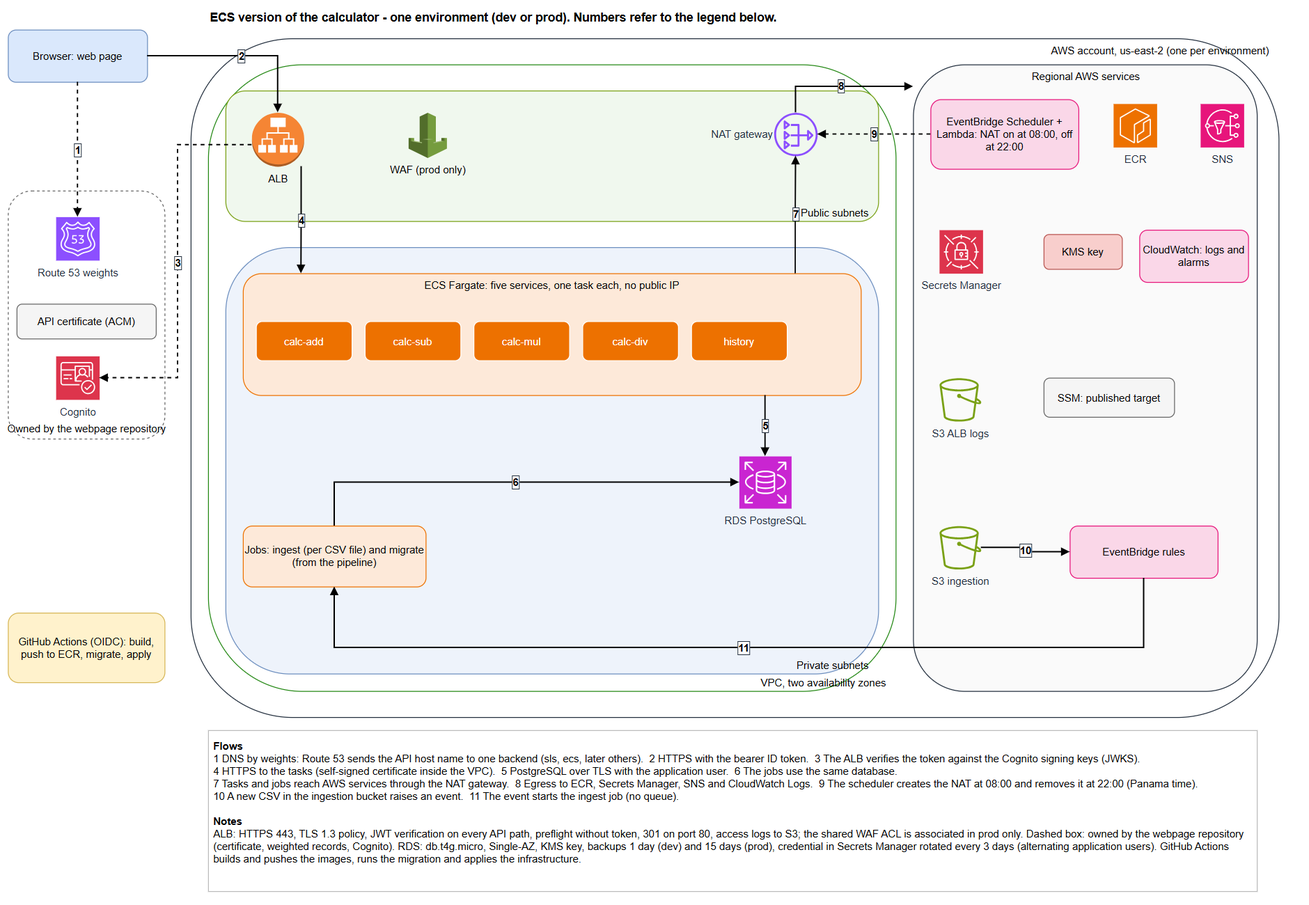
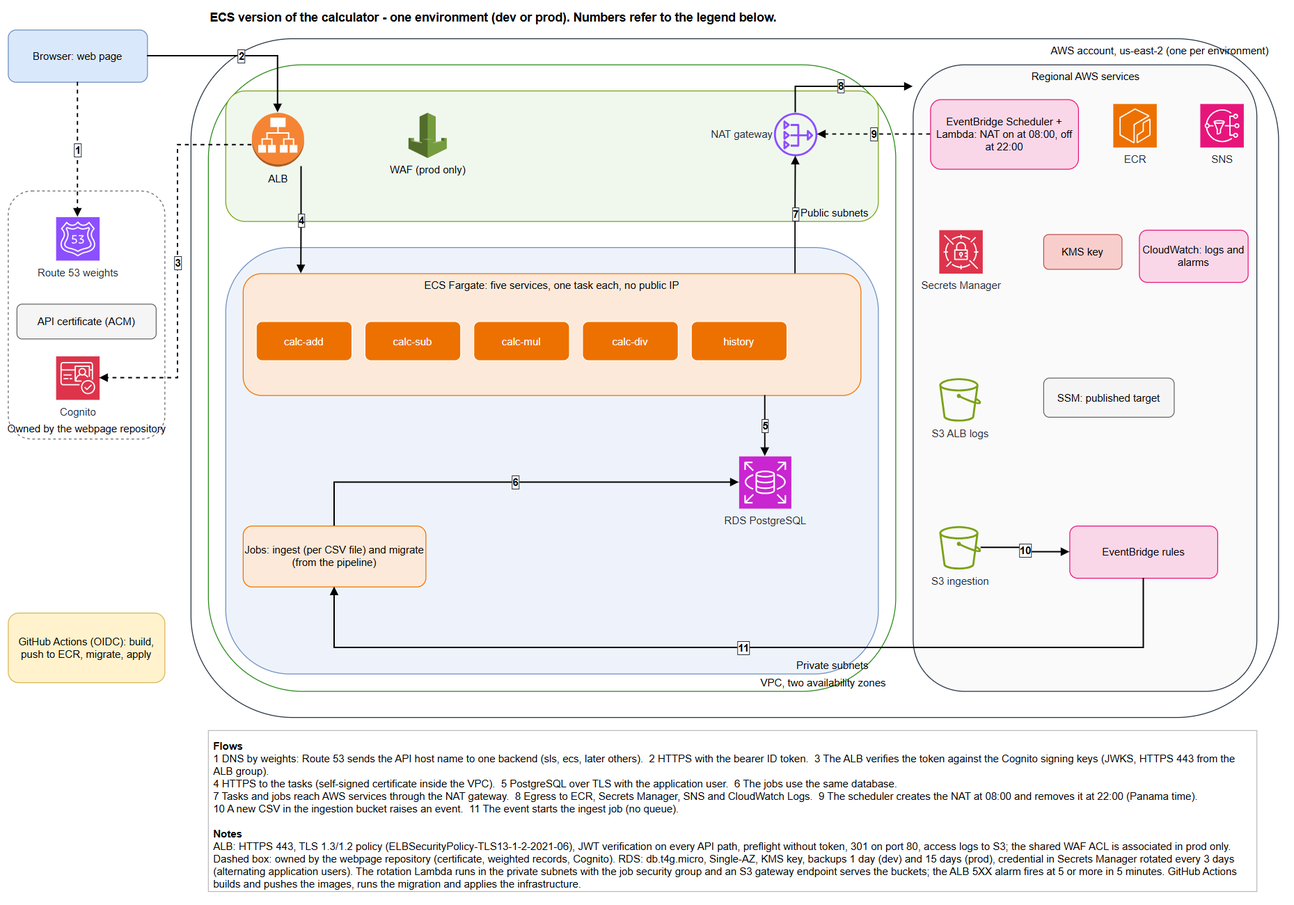
Alert on 5 or more load balancer 5XX responses and document the ECS version

diff --git a/docs/architecture.md b/docs/architecture.md
@@ -1,8 +1,17 @@
 # Architecture
 
-> Status: design stage (2026-10-05). This file holds only the **resource inventory** approved with the design. The full architecture document is written once, at closing.
+> Status: implemented and deployed in `dev` (2026-10-06); `prod` not deployed yet. The inventory was checked against `modules/` and `environments/` at closing.
 > Diagram: [architecture.drawio](architecture.drawio) (export `architecture.png` from it: File > Export as > PNG, 2x).
-> Decisions, accepted exceptions and the security design are recorded in the ADRs and the technical documentation, written at closing.
+> Related: [functional.md](functional.md), [technical.md](technical.md), decisions in [adr/](adr/README.md).
+
+## Overview
+
+```
+Browser --> Route 53 (weights, owned by webpage) --> ALB (443, JWT rule) --> ECS Fargate services (HTTPS, self-signed)
+                                                          |                        |--> RDS PostgreSQL (private, TLS)
+                                                          +--> Cognito JWKS (443)  +--> NAT (08:00-22:00) --> ECR, Secrets Manager, SNS, Logs
+S3 incoming/*.csv --> EventBridge --> one-off Fargate task (ingest) --> RDS
+```
 
 ## Resource inventory
 
@@ -30,21 +39,21 @@ Names follow `<acronym>-useast2-oecalc-<descriptor>-<env>` (`<env>` is `dev` or 
 | 18 | DB subnet group | `aws_db_subnet_group` | `dbsg-useast2-oecalc-<env>` | Private subnets of both AZs | Both | database |
 | 19 | DB parameter group | `aws_db_parameter_group` | `dbpg-useast2-oecalc-<env>` | `rds.force_ssl=1` | Both | database |
 | 20 | RDS PostgreSQL instance | `aws_db_instance` | `rds-useast2-oecalc-<env>` | db.t4g.micro, Single-AZ, gp3 20 GB, backups 1 day dev and 15 days prod, CMK, managed master password | Both | database |
-| 21 | Master secret (created by RDS) + rotation schedule | managed by `aws_db_instance`; schedule by `aws_secretsmanager_secret_rotation` (to be confirmed at implementation) | `rds!db-<id>` (name set by AWS) | Master credential for the administrator, the migration job and the rotation function only; rotates every 3 days | Both | database |
+| 21 | Master secret (created by RDS) + rotation schedule | managed by `aws_db_instance`; schedule by `aws_secretsmanager_secret_rotation` (confirmed) | `rds!db-<id>` (name set by AWS) | Master credential for the administrator, the migration job and the rotation function only; rotates every 3 days | Both | database |
 | 21a | Application secret + rotation (alternating users) | `aws_secretsmanager_secret`, `aws_secretsmanager_secret_rotation`, `aws_lambda_permission` | `sm-useast2-oecalc-app-<env>` | Credential of the limited application user used by services and the ingest job; rotates every 3 days | Both | rotation |
-| 21b | Rotation function + role + log group | `aws_lambda_function`, `aws_iam_role`, `aws_cloudwatch_log_group` | `fnc-useast2-oecalc-db-rotation-<env>`, `iamr-useast2-oecalc-db-rotation-<env>`, `/oecalc/<env>/lambda/db-rotation` | Python or the AWS rotation template for PostgreSQL alternating users; runs in the private subnets with the job security group | Both | rotation |
-| 22 | Ingestion bucket | `aws_s3_bucket` + config | `bckt-useast2-oecalc-ecs-ingest-<acct>-<env>` | CSV drop (`incoming/`, `processed/`, `rejected/`, `reports/`), EventBridge notifications on | Both | storage |
-| 23 | Load balancer log bucket | `aws_s3_bucket` + policy | `bckt-useast2-oecalc-ecs-alblogs-<acct>-<env>` | ALB access logs (30 days dev, 90 prod) | Both | storage |
+| 21b | Rotation function + role + log group | `aws_lambda_function`, `aws_iam_role`, `aws_cloudwatch_log_group` | `fnc-useast2-oecalc-db-rotation-<env>`, `iamr-useast2-oecalc-db-rotation-<env>`, `/oecalc/<env>/lambda/db-rotation` | Python function (`src/rotation/`) for PostgreSQL alternating users, rotation window 09:00-17:00 owner time; runs in the private subnets with the job security group | Both | rotation |
+| 22 | Ingestion bucket | `aws_s3_bucket` + config | `bckt-useast2-oecalc-ecs-ingest-<acct>-<env>` | CSV drop (`incoming/`, `processed/`, `rejected/`, `reports/`), EventBridge notifications on, CMK, versioning, Block Public Access, TLS-only policy, lifecycle per prefix (30 days dev; 90, 90 and 180 days prod) | Both | storage |
+| 23 | Load balancer log bucket | `aws_s3_bucket` + policy | `bckt-useast2-oecalc-ecs-alblogs-<acct>-<env>` | ALB access logs (30 days dev, 90 prod), SSE-S3, TLS-only policy | Both | storage |
 | 24 | ECS cluster | `aws_ecs_cluster` | `ecsc-useast2-oecalc-<env>` | Fargate; Container Insights in prod | Both | cluster |
 | 25 | Task definitions (7) | `aws_ecs_task_definition` | `ecst-useast2-oecalc-<svc>-<env>` for `add`, `sub`, `mul`, `div`, `history`, `ingest`, `migrate` | ARM64, 0.25 vCPU, 0.5 GB, read-only root, awslogs | Both | cluster (migrate), services (5), ingestion (ingest) |
 | 26 | ECS services (5) | `aws_ecs_service` | `ecss-useast2-oecalc-<svc>-<env>` | One task each, no public IP | Both | services |
 | 27 | Task and execution roles (14) | `aws_iam_role` + inline `aws_iam_role_policy` | `iamr-useast2-oecalc-<svc>-task-<env>`, `iamr-useast2-oecalc-<svc>-exec-<env>` | Least privilege per service | Both | cluster, services, ingestion |
 | 28 | Log groups (7) | `aws_cloudwatch_log_group` | `/oecalc/<env>/ecs/<svc>` | JSON logs, CMK, 14 days dev, 90 prod | Both | cluster, services, ingestion |
 | 29 | Application load balancer | `aws_lb` | `alb-useast2-oecalc-api-<env>` | Internet-facing, deletion protection in prod, drops invalid headers, access logs | Both | edge |
-| 30 | Listeners (443, 80) | `aws_lb_listener` | (no name) | 443: certificate of `webpage`, TLS 1.3 policy, default 404; 80: redirect 301 | Both | edge |
-| 31 | Target groups (5) | `aws_lb_target_group` | `tg-useast2-oecalc-<svc>-<env>` | HTTPS to tasks, health route without token | Both | edge |
+| 30 | Listeners (443, 80) | `aws_lb_listener` | (no name) | 443: certificate of `webpage`, policy `ELBSecurityPolicy-TLS13-1-2-2021-06`, default 404; 80: redirect 301 | Both | edge |
+| 31 | Target groups (5) | `aws_lb_target_group` | `tg-useast2-oecalc-<svc>-<env>` | HTTPS to tasks (self-signed certificate, not validated), health route `/health` without token | Both | edge |
 | 32 | Listener rules (10) | `aws_lb_listener_rule` | (no name) | Per service: preflight rule (method OPTIONS, no token) and token rule (JWT verification then forward), paths `/api/v1/<op>` and `/api/ecs/v1/<op>` | Both | edge |
-| 33 | WAF association | `aws_wafv2_web_acl_association` | (shared ACL by ARN) | Shared regional ACL | prod | edge |
+| 33 | WAF association | `aws_wafv2_web_acl_association` | (shared ACL by ARN) | Shared regional ACL; created only when `enable_waf` and `WAF_ACL_ARN` are set | prod | edge |
 | 34 | SSM parameters published (2) | `aws_ssm_parameter` | `/oecalc/<env>/api-backends/ecs/dns-name`, `/oecalc/<env>/api-backends/ecs/hosted-zone-id` | Target read by `webpage` for the weighted record | Both | edge |
 | 35 | EventBridge rule: new CSV | `aws_cloudwatch_event_rule` + target | `evr-useast2-oecalc-ingest-<env>` | Object Created in `incoming/*.csv` runs the ingest task | Both | ingestion |
 | 36 | IAM role for the rule | `aws_iam_role` | `iamr-useast2-oecalc-ingest-events-<env>` | `ecs:RunTask` on the ingest task definition, `iam:PassRole` on its two roles | Both | ingestion |
@@ -52,10 +61,33 @@ Names follow `<acronym>-useast2-oecalc-<descriptor>-<env>` (`<env>` is `dev` or 
 | 38 | Scheduler Lambda function + log group | `aws_lambda_function`, `aws_cloudwatch_log_group` | `fnc-useast2-oecalc-nat-scheduler-<env>`, `/oecalc/<env>/lambda/nat-scheduler` | Python, arm64, outside the VPC; creates and deletes the NAT gateway and the private default route; idempotent | Both | scheduler |
 | 39 | Scheduler IAM roles | `aws_iam_role` + inline `aws_iam_role_policy` | `iamr-useast2-oecalc-nat-fnc-<env>` (function), `iamr-useast2-oecalc-nat-scheduler-<env>` (invoke the function) | Least privilege: NAT gateway and route actions limited by tag, logs; invoke only that function | Both | scheduler |
 | 40 | EventBridge Scheduler schedules (2) + invocation of the function at apply and destroy | `aws_scheduler_schedule`, `aws_lambda_invocation` | `evs-useast2-oecalc-nat-off-<env>`, `evs-useast2-oecalc-nat-on-<env>` | 22:00 off and 08:00 on in the owner's time zone (`env.hcl`); apply creates the NAT, destroy removes it | Both | scheduler |
-| 41 | CloudWatch alarms (16) | `aws_cloudwatch_metric_alarm` | `alrm-useast2-oecalc-<svc>-cpu-<env>` (5), `alrm-useast2-oecalc-<svc>-healthy-hosts-<env>` (5), `alrm-useast2-oecalc-alb-5xx-<env>`, `alrm-useast2-oecalc-target-5xx-<env>`, `alrm-useast2-oecalc-db-free-storage-<env>`, `alrm-useast2-oecalc-db-connections-<env>`, `alrm-useast2-oecalc-db-cpu-<env>`, `alrm-useast2-oecalc-ingest-failed-invocations-<env>` | Service CPU, healthy hosts per target group, ALB and target 5XX, database storage, connections and CPU, EventBridge failed invocations of the ingest rule; all notify the SNS topic | Both | alarms |
+| 41 | CloudWatch alarms (16) | `aws_cloudwatch_metric_alarm` | `alrm-useast2-oecalc-<svc>-cpu-<env>` (5), `alrm-useast2-oecalc-<svc>-healthy-hosts-<env>` (5), `alrm-useast2-oecalc-alb-5xx-<env>`, `alrm-useast2-oecalc-target-5xx-<env>`, `alrm-useast2-oecalc-db-free-storage-<env>`, `alrm-useast2-oecalc-db-connections-<env>`, `alrm-useast2-oecalc-db-cpu-<env>`, `alrm-useast2-oecalc-ingest-failed-invocations-<env>` | Service CPU, healthy hosts per target group, ALB 5XX (sum >= 5 in 5 minutes) and target 5XX (> 5 in 5 minutes), database storage, connections and CPU, EventBridge failed invocations of the ingest rule; all notify the SNS topic | Both | alarms |
 | 42 | CloudWatch alarms owned by their modules (2) | `aws_cloudwatch_metric_alarm` | `alrm-useast2-oecalc-nat-scheduler-errors-<env>`, `alrm-useast2-oecalc-db-rotation-errors-<env>` | Errors of the scheduler and rotation functions | Both | scheduler, rotation |
 | 43 | EventBridge rule: rotation failed | `aws_cloudwatch_event_rule` + target | `evr-useast2-oecalc-db-rotation-failed-<env>` | Failed rotation of the application or master secret of this environment to SNS | Both | rotation |
+| 44 | RDS export log groups (2) | `aws_cloudwatch_log_group` | `/aws/rds/instance/rds-useast2-oecalc-prod/postgresql`, `/aws/rds/instance/rds-useast2-oecalc-prod/upgrade` | PostgreSQL and upgrade logs exported by RDS, CMK, 90 days; none in `dev` (`db_log_exports = []`) | prod | database |
+| 45 | Resource policies | `aws_sns_topic_policy`, `aws_secretsmanager_secret_policy` (2), `aws_s3_bucket_policy` (2) | (attached to rows 16, 21, 21a, 22, 23) | SNS publish only from CloudWatch alarms and EventBridge rules of the account; the master secret policy denies reads except to the migrate task, the rotation function and account administrators, the application secret policy denies non-TLS; buckets deny non-TLS | Both | security, cluster, rotation, storage |
+| 46 | IAM inline policies | `aws_iam_role_policy` | `iamp-useast2-oecalc-<name>-<env>` for each role of rows 14, 21b, 27, 36, 39 and the migrate roles | Least-privilege policy of each role | Both | various |
+| 47 | Routes, associations and security group rules | `aws_route`, `aws_route_table_association`, `aws_vpc_security_group_ingress_rule` / `egress_rule` | (no name) | Public default route to the IGW; subnet associations; one rule resource per entry of rows 10 to 13, including `alb_jwks` (TCP 443 egress of the load balancer group) | Both | network |
+| 48 | Migration task definition, roles and log group | in rows 25, 27, 28 | `ecst-useast2-oecalc-migrate-<env>`, `iamr-useast2-oecalc-migrate-{exec,task}-<env>`, `/oecalc/<env>/ecs/migrate` | Run by the pipeline before services are applied | Both | cluster |
 
 Read, not created here: the API certificate (`/oecalc/<env>/api-certificate-arn`, owned by `webpage`), the Cognito pool and app client (variables), the shared WAF ACL (variable, prod), the hosted zone and the weighted records (`webpage`), the Terraform state bucket (created by Terragrunt on first use as in `sls`), the account CloudTrail.
 
-Differences between environments are only in `environments/<env>/env.hcl`: deletion protection, final snapshot, backup retention (1 day dev, 15 days prod), WAF association, flow logs, Container Insights, log retention, RDS log exports, and the time zone of the NAT schedule.
+Differences between environments are only in `environments/<env>/env.hcl`:
+
+| Setting | dev | prod |
+|---|---|---|
+| VPC CIDR | 10.20.0.0/16 | 10.21.0.0/16 |
+| Deletion protection (database, ALB) | off | on |
+| Database final snapshot, backups | none, 1 day | final snapshot, 15 days |
+| RDS log exports | none | `postgresql`, `upgrade` |
+| WAF association, VPC flow logs, Container Insights, X-Ray on the functions | off | on |
+| Log retention (services, functions) | 14 days | 90 days |
+| ALB log retention | 30 days | 90 days |
+| Ingestion bucket retention (processed, rejected, reports) | 30, 30, 30 days | 90, 90, 180 days |
+| `force_destroy` of buckets and ECR repositories | true | false |
+| KMS deletion window | 7 days | 30 days |
+| CORS origin | `https://over-engineered-simple-calculator.dev.nube-segura.com` | `https://over-engineered-simple-calculator.nube-segura.com` |
+
+The NAT schedule (22:00 off, 08:00 on, `America/Panama`), the alarm thresholds, task size (0.25 vCPU, 0.5 GB) and the instance class are the same in both.
+
+Note on the load balancer security group: its Terraform `description` still says that it allows egress to the tasks only, although it also has the `alb_jwks` rule (TCP 443). The text is kept on purpose: changing the description of a security group forces its replacement.

diff --git a/docs/technical.md b/docs/technical.md
@@ -1,0 +1,56 @@
+# Technical documentation
+
+## Stack
+
+- Python 3.14, Starlette 1.7 and Uvicorn, psycopg 3 with `psycopg-pool`, boto3, `cryptography`. Versions are pinned in `src/backend/calculator_core/requirements*.txt`.
+- Hexagonal package `src/backend/calculator_core/` (`domain`, `application` use cases and ports, `adapters` inbound and outbound, `config`). The import contracts (`.importlinter`) keep the layers apart.
+- One image definition, `src/backend/Dockerfile`, with the build argument `SERVICE` (`calc-add`, `calc-sub`, `calc-mul`, `calc-div`, `history`, `ingest`, `migrate`); base `python:3.14-slim-trixie` pinned by digest, arm64, non-root user (10001), code read-only with `/tmp` as the only writable volume.
+- Infrastructure: Terraform modules in `modules/`, Terragrunt units in `environments/` (`common/` shared definitions, `dev/` and `prod/` with the same units; every difference is in `env.hcl`). Region `us-east-2`, one AWS account per environment. The resource inventory is in [architecture.md](architecture.md).
+
+Decisions: [adr/](adr/README.md).
+
+## Services
+
+Each HTTP service mounts only its routes under `/api/v1` and `/api/ecs/v1`, plus `/health`, and listens on TCP 8443 over HTTPS with a throwaway self-signed certificate generated at start (`adapters/inbound/self_signed_tls.py`, written under `TLS_DIRECTORY`; [ADR 0005](adr/0005-self-signed-target-certificates.md)). Cross-cutting behavior (correlation id, CORS headers on every response, error shape) is one ASGI middleware. A service fails fast when a required setting is missing, except with `ENVIRONMENT=local`.
+
+Environment variables of the HTTP services: `ENVIRONMENT`, `SERVICE_NAME`, `APP_SECRET_ARN`, `DB_HOST`, `DB_PORT`, `DB_NAME`, `ALERT_TOPIC_ARN`, `CORS_ALLOWED_ORIGIN`, `TLS_DIRECTORY`. The ingest job needs `INGEST_BUCKET` and `INGEST_KEY` (set by the EventBridge target). The migrate task uses `MASTER_SECRET_ARN`, `APP_SECRET_ARN`, `DB_HOST`, `DB_PORT`, `DB_NAME` and `MIGRATIONS_DIRECTORY`.
+
+## Database
+
+PostgreSQL 17 on RDS (`db.t4g.micro`, gp3 20 GB, Single-AZ, CMK, `rds.force_ssl=1`, private subnets). Schema through versioned SQL in `src/backend/migrations/` (`0001_create_calculations.sql`, `0002_application_role.sql`), applied by the `migrate` task from the pipeline; services never change the schema.
+
+Identities: the master user (`calcadmin`, secret managed by RDS, rotated every 3 days) is read only by the migrate task, the rotation function and account administrators (secret policy). Services and the ingest job use `calc_app`, a login user that belongs to the group role `calc_app_rw` (select and insert on `calculations`). Its secret `sm-useast2-oecalc-app-<env>` rotates every 3 days with the alternating-user strategy through `src/rotation/` (a Lambda in the private subnets). Clients keep a pool and reconnect with the current secret version when a new connection is rejected. See [ADR 0004](adr/0004-alternating-user-rotation.md).
+
+## Edge
+
+The ALB listens on 443 (policy `ELBSecurityPolicy-TLS13-1-2-2021-06`, certificate read from SSM `/oecalc/<env>/api-certificate-arn`, published by the webpage repository; the edge unit refuses to plan when it is empty). The default action is a JSON 404. Per service there are two listener rules: a preflight rule (method `OPTIONS`, no token; priorities 10 to 50) and a token rule (priorities 110 to 150) whose first action is `jwt-validation` (issuer, JWKS of the pool, `aud`, `token_use`) and second a forward. HTTP 80 redirects to HTTPS. Target groups use HTTPS to the task port with a `/health` check.
+
+The load balancer security group needs egress TCP 443 (rule `alb_jwks`) to download the JWKS; without it the rule returns a 500 produced by the load balancer (`JWKSRequestTimeout`). Its Terraform description remains "egress to the tasks only" because editing it forces replacement of the group. See [ADR 0002](adr/0002-token-validation-at-the-load-balancer.md).
+
+In `prod` the shared regional WAF ACL (`WAF_ACL_ARN`) is associated. The edge unit publishes `/oecalc/<env>/api-backends/ecs/dns-name` and `/oecalc/<env>/api-backends/ecs/hosted-zone-id` for the webpage repository.
+
+## Network and the NAT schedule
+
+Two public and two private subnets, an S3 gateway endpoint and one NAT gateway in AZ a. The `scheduler` unit holds an EventBridge Scheduler pair (`cron(0 22 * * ? *)` off, `cron(0 8 * * ? *)` on, `America/Panama`) that invokes a Lambda (`src/scheduler/`) which creates or deletes the NAT gateway and the private default route, idempotently; the Elastic IP stays. Terraform invokes the function at apply (NAT on) and at destroy (NAT off), so the state never owns the NAT. The deployment workflow also invokes it with `{"action":"on"}` before building and pushing images. Errors raise an alarm. See [ADR 0003](adr/0003-scheduled-nat-gateway.md).
+
+## Delivery
+
+`.github/workflows/`: `ci.yml` (lint, format, types, import contracts, tests with coverage of at least 85 percent, Terraform and Terragrunt checks; Checkov is disabled for now), `deploy-dev.yml` (branch `develop`) and `deploy-prod.yml` (branch `main`, approval on the GitHub `prod` environment), both calling `deploy.yml`.
+
+Steps of `deploy.yml`: validate variables and branch, verify the account, phase 1 apply (`security`, `network`, `scheduler`, `registry`, `storage`, `database`, `rotation`, `cluster`), NAT on, build and push the images tagged with the commit, run the migrate task, phase 2 apply (`edge`, `services`, `ingestion`, `alarms`), and a smoke test through the load balancer (no token returns 401, preflight returns the allowed origin). The smoke test does not use a valid token, so it cannot detect the JWKS egress problem; the 5XX alarm of the load balancer covers it.
+
+GitHub environment secrets `ROLE_ARN`, `AWS_ACCOUNT_ID`, `SUPPORT_EMAIL`; variables `AWS_REGION`, `COGNITO_USER_POOL_ID`, `COGNITO_APP_CLIENT_ID`, `WAF_ACL_ARN` (`prod`). AWS access is by OIDC with the role `github-actions-terraform-<env>-role`.
+
+## Local checks
+
+From `src/backend/calculator_core`: `ruff check . && ruff format --check .`, `mypy`, `PYTHONPATH=src lint-imports`, `pytest` (PostgreSQL tests run when `TEST_DATABASE_URL` is set). Infrastructure: `terraform fmt -check -recursive`, `terragrunt hcl fmt --check`, `terraform validate` per module.
+
+## Known exceptions (owner-accepted for this project)
+
+Single-AZ database, no AWS Backup plan, no RDS Proxy, tokens verified only at the load balancer, no administrator access path to the database, no Secrets Manager endpoint (a night rotation may leave new connections failing until the NAT returns), S3 server access logging and Macie not enabled, Checkov disabled.
+
+## Operational lessons
+
+- A change of a force-new attribute (for example a security group `description`) on a resource in use makes Terraform delete its rules and fail with `DependencyViolation`. Scan plans for `forces replacement` before pushing.
+- Security group names cannot start with `sg-`: the acronym is `sgp`.
+- Terragrunt copies only the module folder, so modules receive source paths as inputs built from `get_repo_root()`.

diff --git a/docs/functional.md b/docs/functional.md
@@ -1,0 +1,65 @@
+# Functional documentation
+
+The ECS version of the calculator is a backend that implements the same API contract as the serverless sibling (`over-engineered-simple-calculator-aws-sls-version`). The web page (`over-engineered-simple-calculator-webpage`) calls the API host name of its environment with the Cognito ID token; which backend answers is decided only by the Route 53 weights owned by the webpage repository. The history of this backend starts empty (no data is migrated).
+
+## API
+
+Base paths: `/api/v1` (neutral, shared by every backend) and `/api/ecs/v1` (own prefix). Both behave identically. All requests and responses are JSON.
+
+| Method and path | Purpose |
+|---|---|
+| `POST /{add, sub, mul, div}` | Body `{"a": <number>, "b": <number>}`. Returns `200` with `calculation_id`, `operation`, `a`, `b`, `result` (strings) |
+| `GET /history?limit=<n>&cursor=<opaque>` | Latest calculations first: `items` (`calculation_id`, `operation`, `a`, `b`, `result`, `occurred_at`) and `next_cursor` (null at the end). `limit` defaults to 20, capped at 100 |
+| `GET /health` | Used by the load balancer only; needs no token |
+| `OPTIONS <any API path>` | CORS preflight; needs no token; answers with the allowed origin of the environment |
+
+Rules: operands within +-1e15 and at most 15 decimal places, computed with `Decimal`. A calculation is saved before the `200` is returned; saving the same `calculation_id` again keeps one row. A saved row is visible to the next history read.
+
+### Errors
+
+Shape: `{"error": {"code", "message", "request_id"}}`.
+
+| Status | When | Notifies the owner |
+|---|---|---|
+| 400 | Malformed body or missing operand (`VALIDATION_ERROR`), invalid operand, division by zero (`DIVISION_BY_ZERO`), invalid `limit` or `cursor` | No |
+| 401 | No valid Cognito ID token. Produced by the load balancer, so its body is not the JSON shape above | No |
+| 404, 405 | Unknown route or method | No |
+| 500 | Unexpected or persistence error, generic message | Yes (SNS email) |
+
+## Access
+
+Every method except the preflight and `/health` needs `Authorization: Bearer <Cognito ID token>`. The load balancer verifies the signature against the pool JWKS, the issuer, the expiry, `aud` equal to the app client and `token_use` equal to `id`; rejected requests never reach a service. The pool and the app client belong to the webpage repository.
+
+## CSV ingestion
+
+The owner drops a `.csv` file in `incoming/` of the ingestion bucket. EventBridge starts one Fargate task for that object, with no queue and no permanent task.
+
+- Header: `operation,operand_a,operand_b,occurred_at` (ISO-8601 UTC). Maximum 5 MB.
+- Each valid row is saved with a deterministic id from its content, so ingesting a file twice creates no duplicates.
+- Invalid rows are skipped and listed (line and reason) in a report under `reports/`.
+- When the run ends the file moves to `processed/`. A file that is not valid CSV, has a wrong header or is too large moves to `rejected/` with a report and an email.
+- An infrastructure failure (database, S3) fails the task, leaves the file in `incoming/` and sends an email.
+
+## Moving traffic between backends
+
+Route 53 weights decide the backend (for example `sls` 100 and `ecs` 0, or the reverse). They are variables of the webpage repository; a change needs a deployment of that repository and is reversible by changing the weights again. To test `ecs` before the switch, resolve the API host name to the load balancer on the tester's machine. See [ADR 0006](adr/0006-route-53-weights-owned-by-webpage.md).
+
+## Operations
+
+- Alerts: an SNS email on infrastructure errors, failed ingestion tasks, failed secret rotation and the alarms listed in [architecture.md](architecture.md) (unhealthy service, CPU, 5XX of the load balancer or the targets, database storage, connections and CPU).
+- Night window: the NAT gateway is removed from 22:00 to 08:00 (Panama time). While it is down, tasks cannot reach ECR, Secrets Manager, SNS or CloudWatch Logs: running services keep answering, but a new task, a new database connection after a credential rotation, an email alert or an ingestion run can fail or wait until 08:00.
+- Credentials: the services use a limited database user whose secret rotates every 3 days between 09:00 and 17:00 (Panama time).
+- No administrator access path to the database exists at present (owner decision); the options are to be discussed when needed.
+
+## Retirement of the test deployment
+
+Do the steps in this order; each is reversible until the database is destroyed.
+
+1. In the webpage repository set the weights back to `sls` (100) and `ecs` (0) and deploy it; confirm the web page works against `sls`. Never destroy a backend that still receives traffic.
+2. Optional: take a manual database snapshot if the data matters (`prod` takes a final snapshot by itself; `dev` does not).
+3. `prod` only: lift the deletion protection. In `environments/prod/env.hcl` set `db_deletion_protection = false` and `alb_deletion_protection = false` and apply the `database` and `edge` units. Buckets and ECR repositories are not force-destroyed in `prod` (`force_destroy_data = false`): empty the ingestion and ALB log buckets and the ECR repositories by hand, or set it to `true` and apply `storage` and `registry` first.
+4. Destroy the units in reverse order of the deployment: `alarms`, `ingestion`, `services`, `edge`, `cluster`, `rotation`, `database`, `storage`, `registry`, `scheduler`, `network`, `security` (for example `terragrunt run --all destroy` from `environments/<env>`). The destroy of `scheduler` removes the NAT gateway through its function, since the Terraform state never owns it.
+5. The webpage repository then skips the backend because its SSM parameters no longer exist; remove the entry from its list of registered backends.
+6. The KMS key stays pending deletion for 7 days (`dev`) or 30 days (`prod`); the RDS final snapshot of `prod` stays until the owner deletes it.
+
+The rehearsal of the rollback to `sls` and the `prod` deployment are pending at the time of writing; this procedure has not been executed yet.

diff --git a/README.md b/README.md
@@ -28,7 +28,7 @@ The API answers on `/api/v1` (shared by every backend) and `/api/ecs/v1` (its ow
 | `modules/` | Terraform modules |
 | `environments/` | Terragrunt root, common units and `dev` / `prod` settings (`env.hcl`) |
 | `.github/workflows/` | `ci.yml` and the deployment workflows (`develop` deploys `dev`, `main` deploys `prod`) |
-| `docs/` | Architecture (resource inventory and diagram) |
+| `docs/` | [Functional](docs/functional.md), [technical](docs/technical.md), [architecture](docs/architecture.md) (resource inventory and diagram) and [decisions](docs/adr/README.md) |
 
 ## Checks
 
@@ -51,4 +51,4 @@ GitHub environment `dev` or `prod` needs the secrets `ROLE_ARN`, `AWS_ACCOUNT_ID
 published the API certificate (`/oecalc/<env>/api-certificate-arn`) first. The workflow applies the foundation units, builds and
 pushes the images, runs the migration, applies the load balancer, services, ingestion and alarms, and ends with a smoke test.
 
-Test project: raise it, review it and destroy it. Destroying `prod` first needs the deletion protection lifted.
+Test project: raise it, review it and destroy it. Retirement order (weights back to `sls` first, deletion protection lifted in `prod`) is in [docs/functional.md](docs/functional.md#retirement-of-the-test-deployment).

diff --git a/docs/adr/0002-token-validation-at-the-load-balancer.md b/docs/adr/0002-token-validation-at-the-load-balancer.md
@@ -1,0 +1,15 @@
+# ADR 0002: Token validation at the load balancer
+
+Status: Accepted (2026-10-05)
+
+## Context
+
+The web page sends the Cognito ID token to the API. The owner wanted validation before traffic reaches the services.
+
+## Decision
+
+The ALB listener rules use the `jwt-validation` action (issuer, JWKS of the pool, `aud`, `token_use`) on every API path; a preflight rule by method comes first without a token, and the default action is a 404. Services never authorize; they only decode `sub` for logging. The services accept traffic only from the load balancer security group.
+
+## Consequences
+
+Rejections are produced by the load balancer, so their status and body are not customizable. The load balancer must reach the JWKS URL: its security group needs egress TCP 443 (rule `alb_jwks`); without it the rule fails with a 500. The smoke test sends no valid token, so an alarm on `HTTPCode_ELB_5XX_Count` (sum of at least 5 in 5 minutes) covers that failure. The description of the load balancer security group is not edited because that forces its replacement.

diff --git a/docs/adr/0004-alternating-user-rotation.md b/docs/adr/0004-alternating-user-rotation.md
@@ -1,0 +1,15 @@
+# ADR 0004: Alternating-user credential rotation
+
+Status: Accepted (2026-10-05)
+
+## Context
+
+Services must not use the master user, and credentials must rotate without a visible failure.
+
+## Decision
+
+Services and the ingest job use `calc_app`, a login user in the group role `calc_app_rw` (select and insert on `calculations`), created by the migration without a password. The secret `sm-useast2-oecalc-app-<env>` rotates every 3 days with the alternating-user strategy (two users, the previous one stays valid for one cycle) through a Lambda in the private subnets, within 09:00 to 17:00 Panama time. The master user (secret managed by RDS, also rotated every 3 days) is read only by the migrate task, the rotation function and administrators. A failed rotation sends an SNS email.
+
+## Consequences
+
+Connections are pooled and reconnect with the current secret version on rejection. The rotation function needs the VPC and Secrets Manager egress, which is why the window is inside the NAT hours.

diff --git a/docs/adr/0006-route-53-weights-owned-by-webpage.md b/docs/adr/0006-route-53-weights-owned-by-webpage.md
@@ -1,0 +1,15 @@
+# ADR 0006: Route 53 weights owned by the webpage repository
+
+Status: Accepted (2026-10-05)
+
+## Context
+
+Several interchangeable backends (`sls`, `ecs`, later EC2 and EKS) must answer on the same host name, and the web page must not change when traffic moves.
+
+## Decision
+
+The webpage repository owns the API certificate, the weighted records and the list of registered backends. Each backend publishes its target in SSM (`/oecalc/<env>/api-backends/<backend>/dns-name` and `hosted-zone-id`) and serves the neutral prefix `/api/v1` plus its own. This repository only reads the certificate (`/oecalc/<env>/api-certificate-arn`) and publishes its target.
+
+## Consequences
+
+Switching or rolling back is a weight change in another repository and needs a deployment of the webpage infrastructure. A backend appears there only after it has published its target, which currently needs the webpage to be deployed once more. A backend must not be destroyed before the weights are moved away from it.

diff --git a/docs/adr/0003-scheduled-nat-gateway.md b/docs/adr/0003-scheduled-nat-gateway.md
@@ -1,0 +1,15 @@
+# ADR 0003: Scheduled NAT gateway
+
+Status: Accepted (2026-10-05)
+
+## Context
+
+Private tasks need egress to ECR, Secrets Manager, SNS and CloudWatch Logs. A NAT gateway is the safest path but costs by the hour; VPC endpoints and public task addresses were rejected (cost, and nothing that processes data may be public).
+
+## Decision
+
+Keep one NAT gateway and remove it daily from 22:00 to 08:00 (`America/Panama`). EventBridge Scheduler invokes a Lambda outside the VPC that creates and deletes the NAT gateway and the private default route; the Elastic IP stays. Terraform invokes the function at apply and destroy and never owns the NAT. The pipeline turns the NAT on before it deploys.
+
+## Consequences
+
+Saves the hourly cost for 14 hours a day. At night nothing can pull images, ship logs, send alerts or reach Secrets Manager: new tasks, new database connections after a rotation and ingestion runs may fail until 08:00. The function must be idempotent and its errors raise an alarm.

diff --git a/docs/adr/0001-ecs-fargate-and-rds-postgresql.md b/docs/adr/0001-ecs-fargate-and-rds-postgresql.md
@@ -1,0 +1,15 @@
+# ADR 0001: ECS Fargate and RDS PostgreSQL
+
+Status: Accepted (2026-10-05)
+
+## Context
+
+The project exists to try a technology other than the serverless sibling, with the same business rules and API contract. It is a test: raised, reviewed and destroyed.
+
+## Decision
+
+Run five HTTP services and the ingestion job on ECS Fargate (ARM64, one task each, no auto scaling) and store data in RDS for PostgreSQL (`db.t4g.micro`, Single-AZ, gp3 20 GB) with direct connections from the services.
+
+## Consequences
+
+Fixed hourly costs (database, load balancer, NAT, tasks) instead of pay-per-request. Accepted exceptions to the team guidelines: Single-AZ, no AWS Backup plan, no RDS Proxy. Schema changes need a migration task in the pipeline. The history is synchronous, with no queue. Services must handle credential rotation by reconnecting.

diff --git a/docs/adr/0005-self-signed-target-certificates.md b/docs/adr/0005-self-signed-target-certificates.md
@@ -1,0 +1,15 @@
+# ADR 0005: Self-signed certificates between load balancer and tasks
+
+Status: Accepted (2026-10-05)
+
+## Context
+
+Traffic inside the VPC should still be encrypted, but a certificate authority for the tasks is excessive for a test project.
+
+## Decision
+
+Each task generates an in-memory ECDSA P-256 self-signed certificate valid one day at start, and the target groups use HTTPS. The load balancer does not validate target certificates.
+
+## Consequences
+
+Encryption in transit without certificate management. The certificate does not authenticate the hop; only the load balancer security group can reach the tasks. The private key stays in the task and is never logged.

diff --git a/docs/adr/README.md b/docs/adr/README.md
@@ -1,0 +1,8 @@
+# Architecture decision records
+
+- [0001 ECS Fargate and RDS PostgreSQL](0001-ecs-fargate-and-rds-postgresql.md)
+- [0002 Token validation at the load balancer](0002-token-validation-at-the-load-balancer.md)
+- [0003 Scheduled NAT gateway](0003-scheduled-nat-gateway.md)
+- [0004 Alternating-user credential rotation](0004-alternating-user-rotation.md)
+- [0005 Self-signed certificates between load balancer and tasks](0005-self-signed-target-certificates.md)
+- [0006 Route 53 weights owned by the webpage repository](0006-route-53-weights-owned-by-webpage.md)
